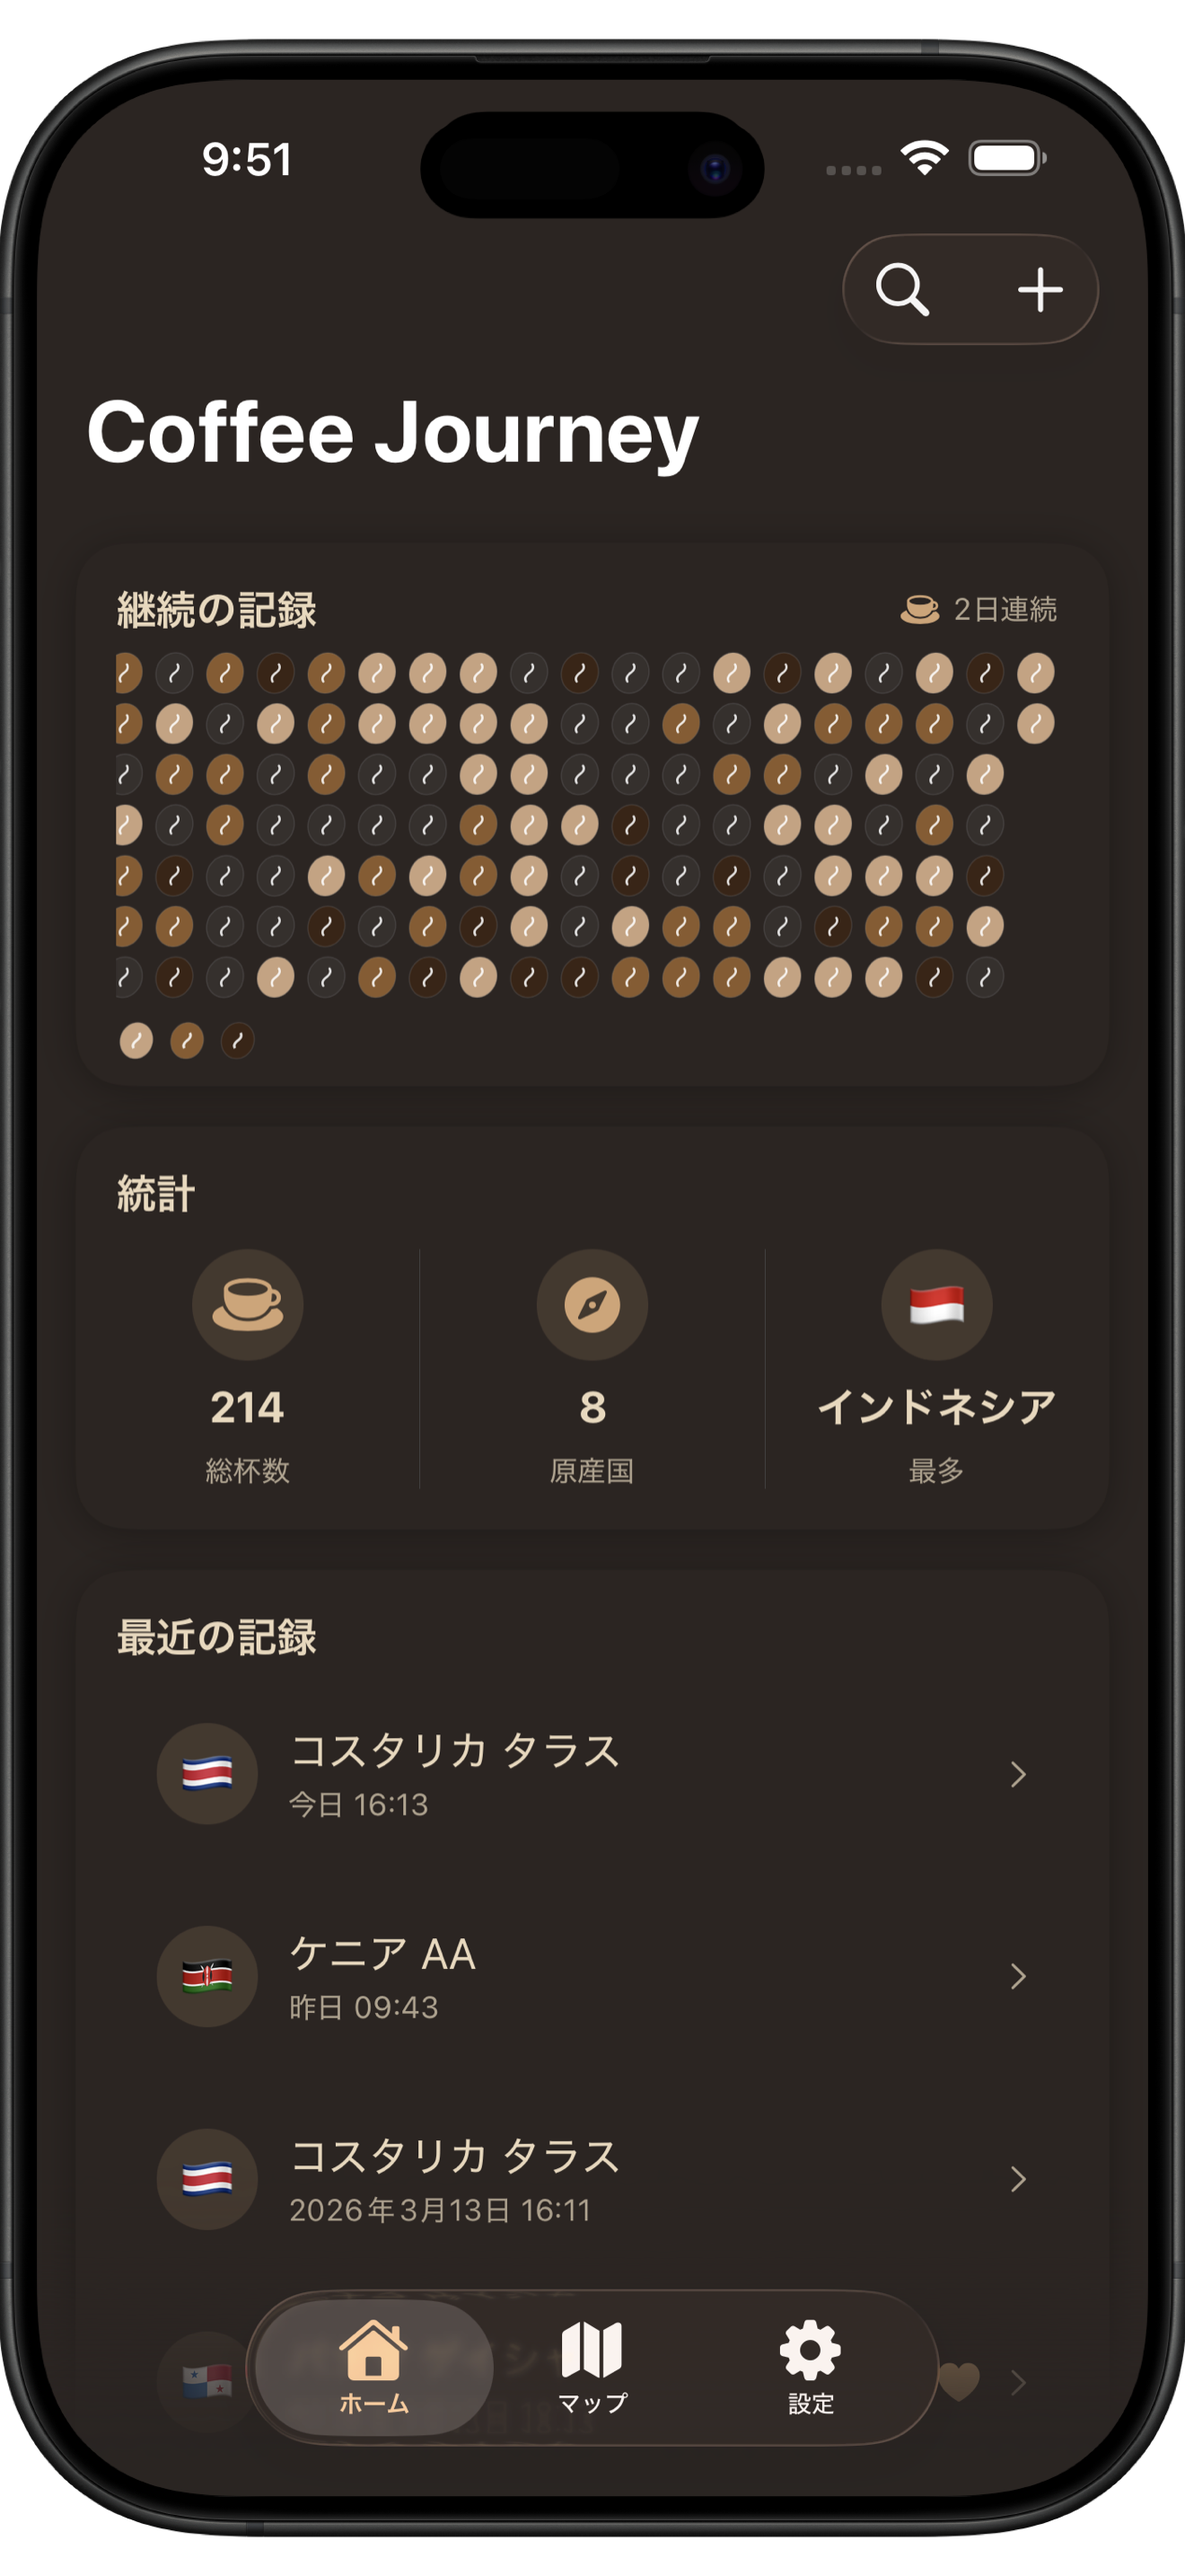
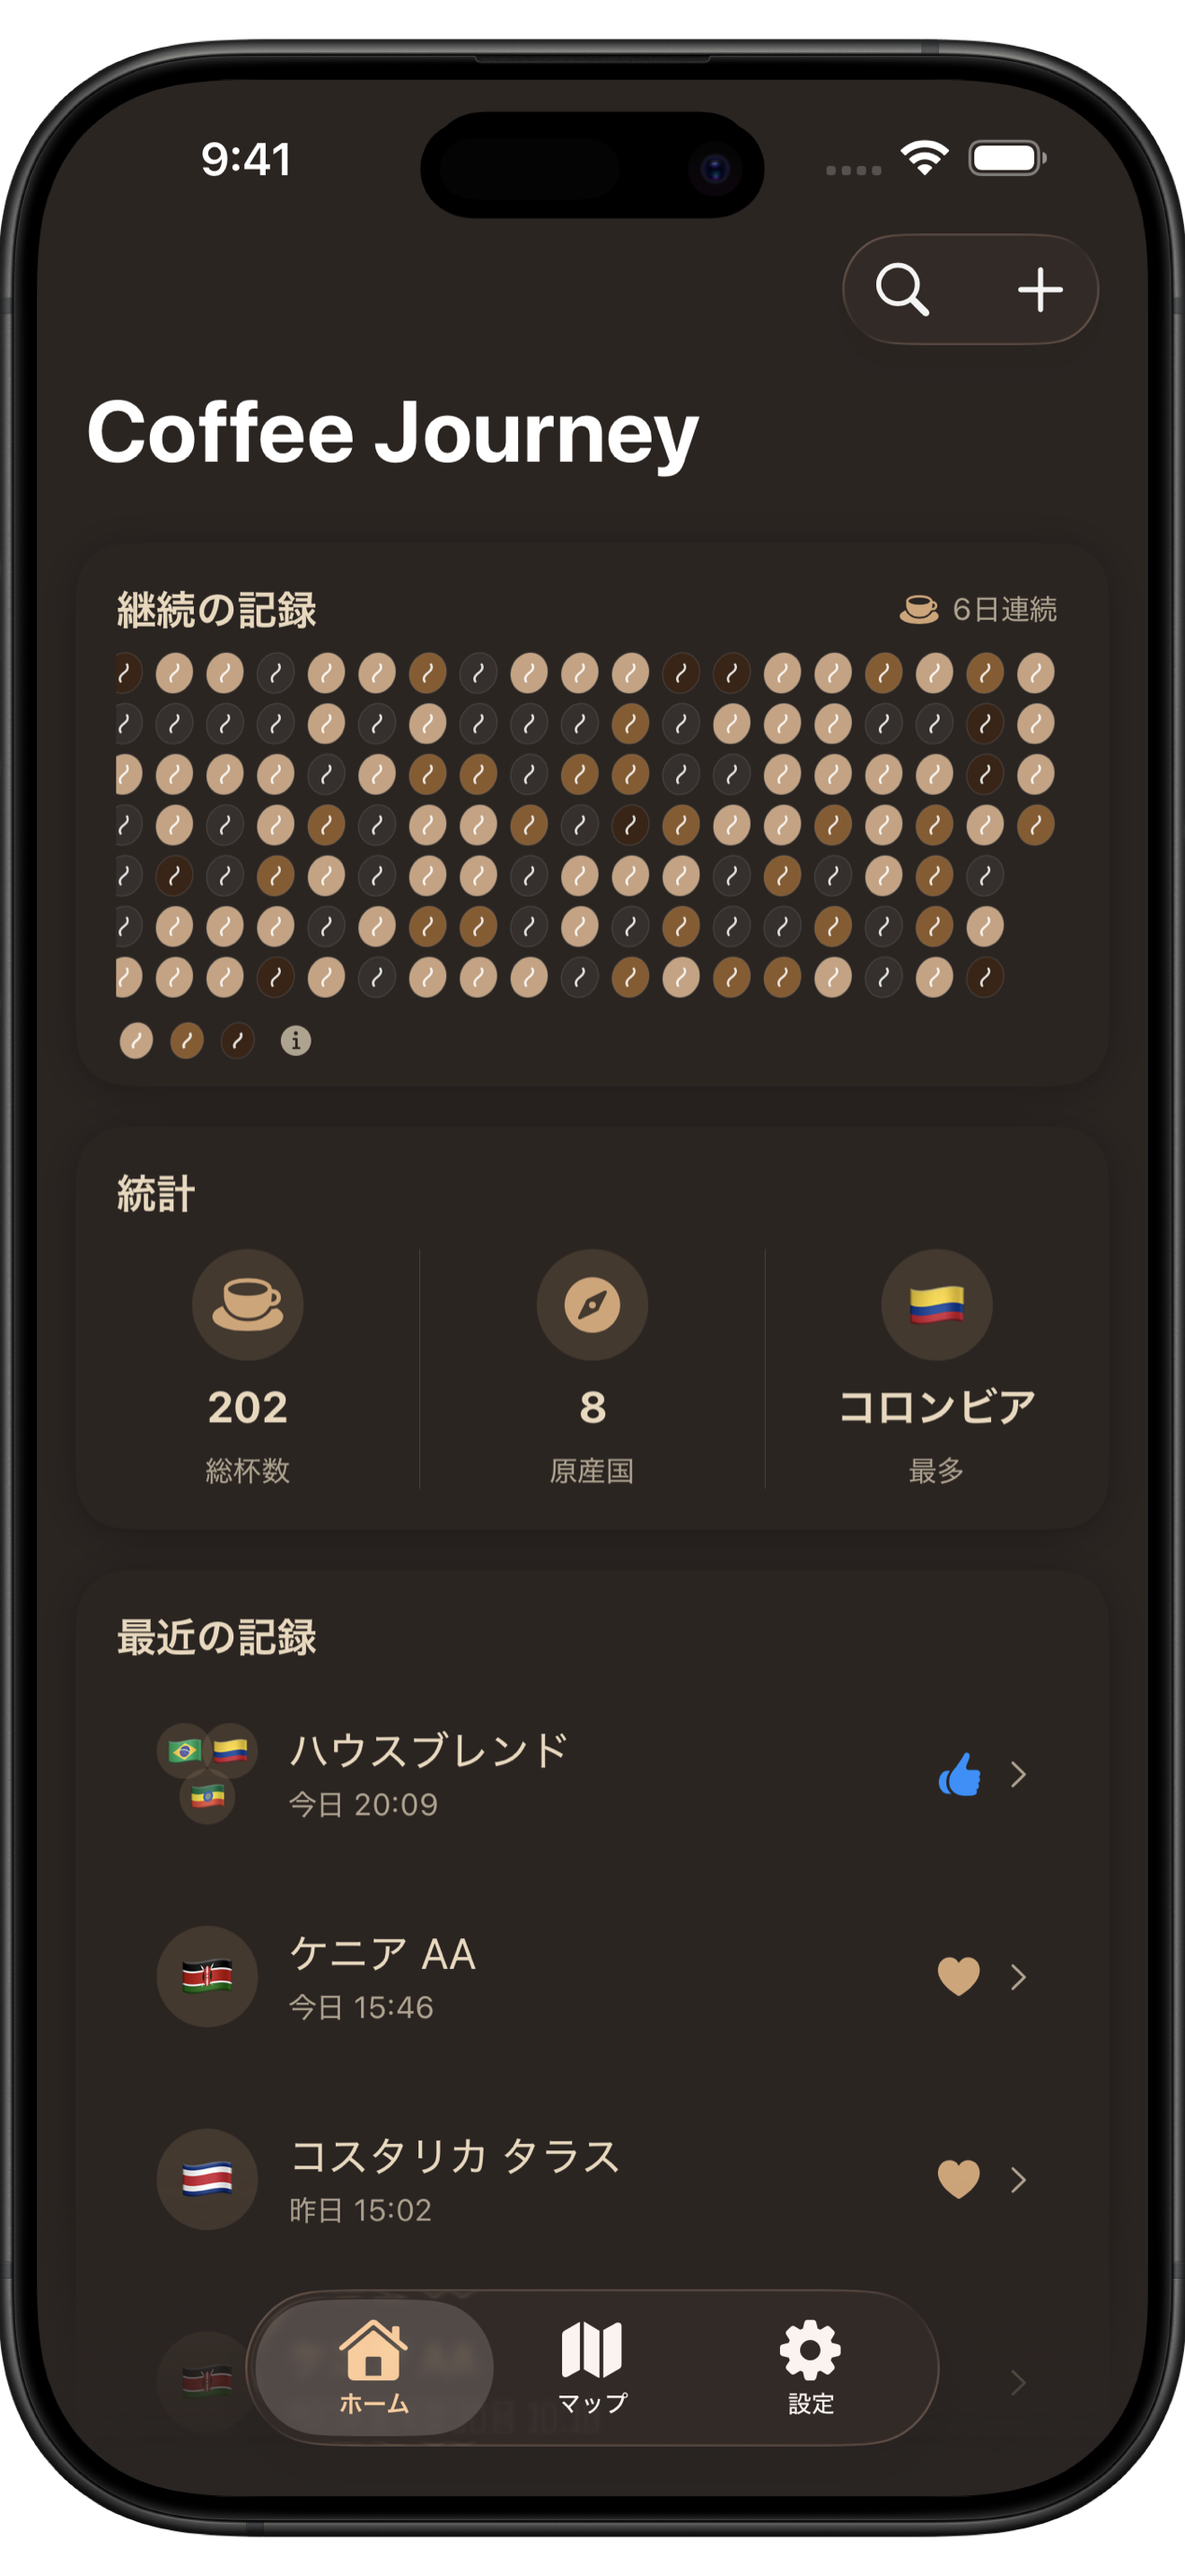
エクスポート機能のリリースとロードマップ更新
- エクスポート機能を実装済みに変更
- 統計機能強化を開発中として追加
- スクリーンショット画像を最新版に更新

diff --git a/apps/coffeejourney/index.html b/apps/coffeejourney/index.html
@@ -79,8 +79,9 @@
                         class="version">実装済み</span></div>
                 <div class="roadmap-item released"><span class="feature-name">ブレンド登録機能</span><span
                         class="version">実装済み</span></div>
-                <div class="roadmap-item in-development"><span>エクスポート機能</span></div>
-                <div class="roadmap-item"><span>統計機能強化</span></div>
+                <div class="roadmap-item released"><span class="feature-name">エクスポート機能</span><span
+                        class="version">実装済み</span></div>
+                <div class="roadmap-item in-development"><span>統計機能強化</span></div>
                 <div class="roadmap-item"><span>年間振り返り機能</span></div>
             </div>
             <p class="roadmap-note">and more...</p>
